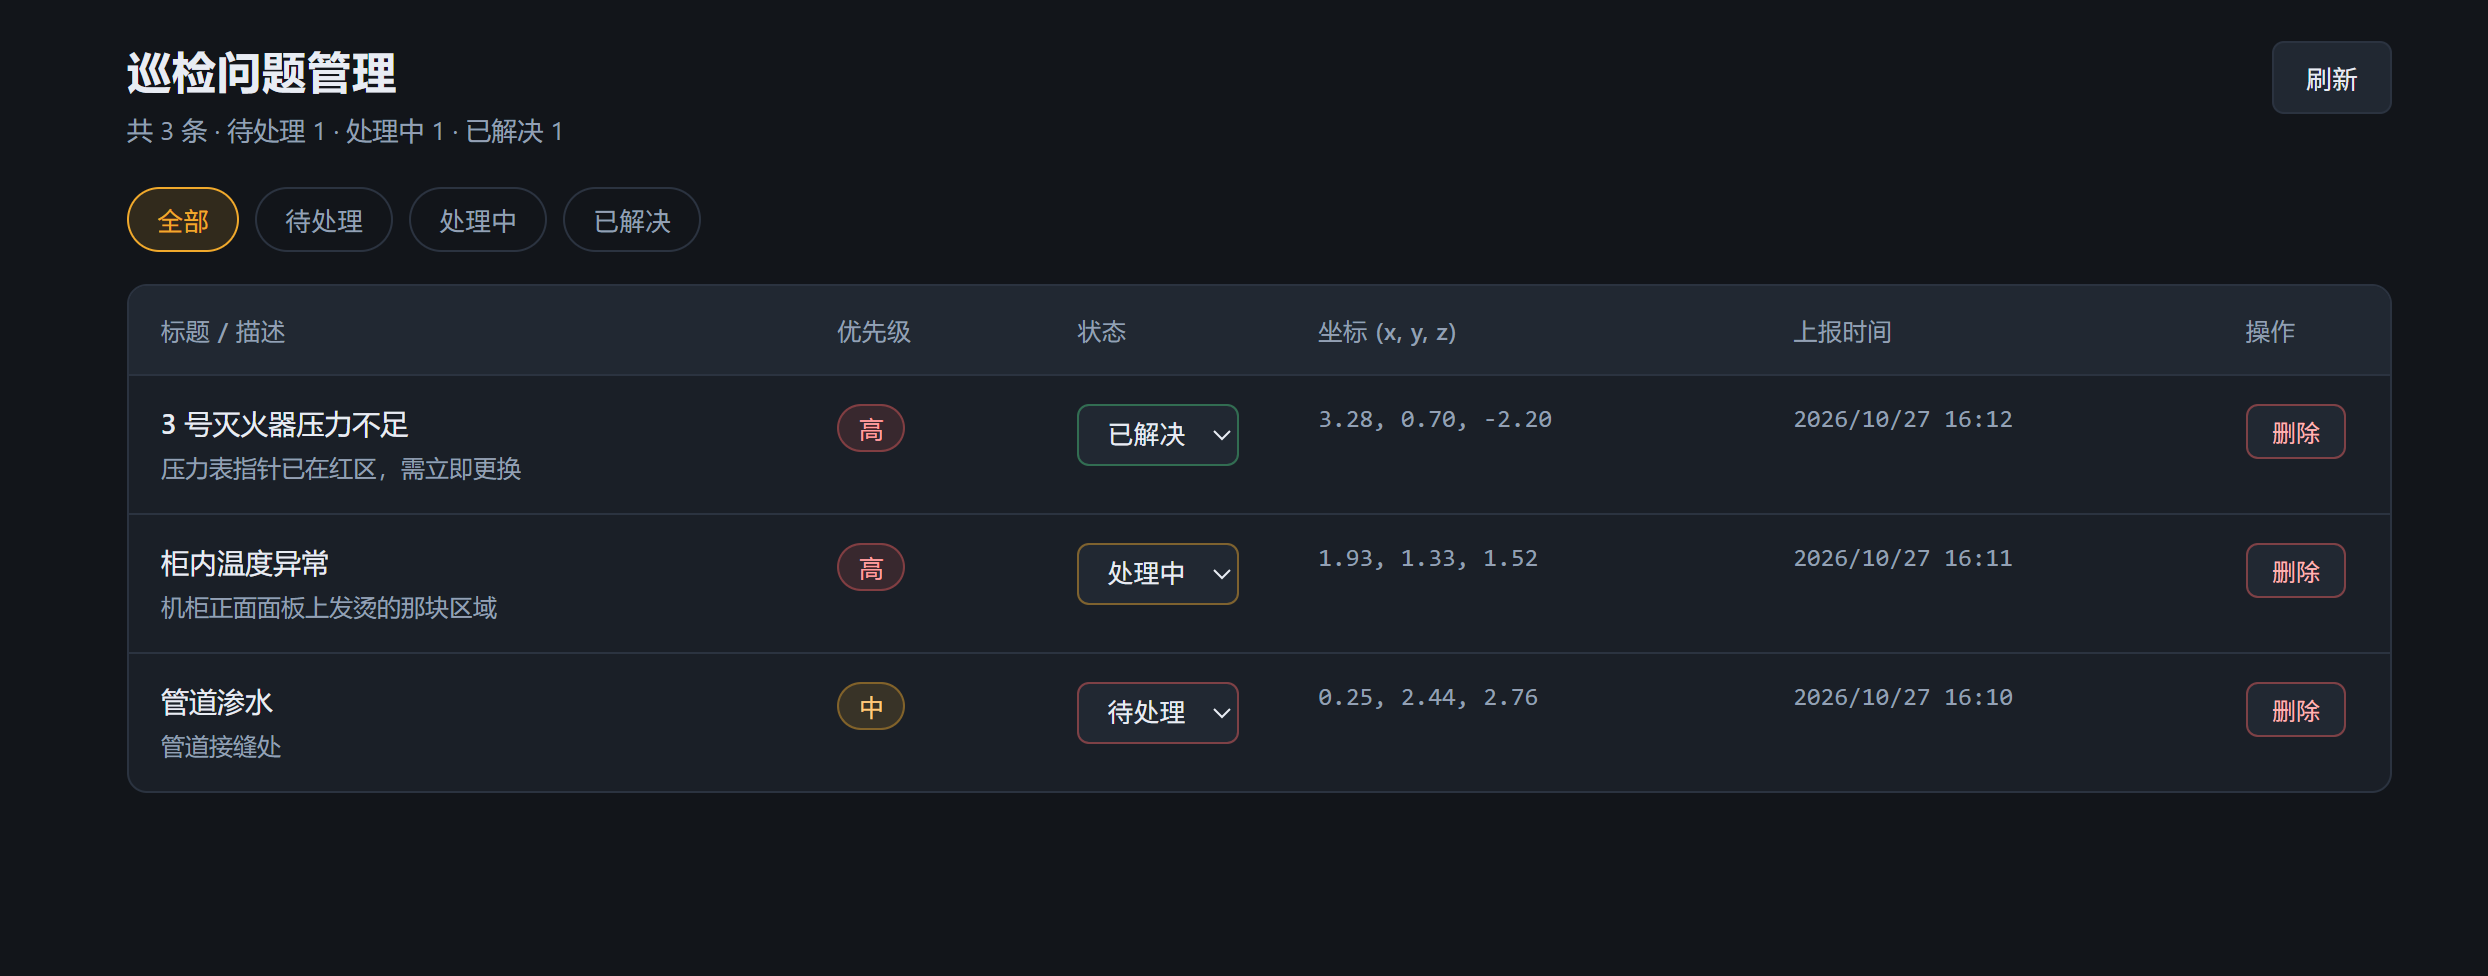
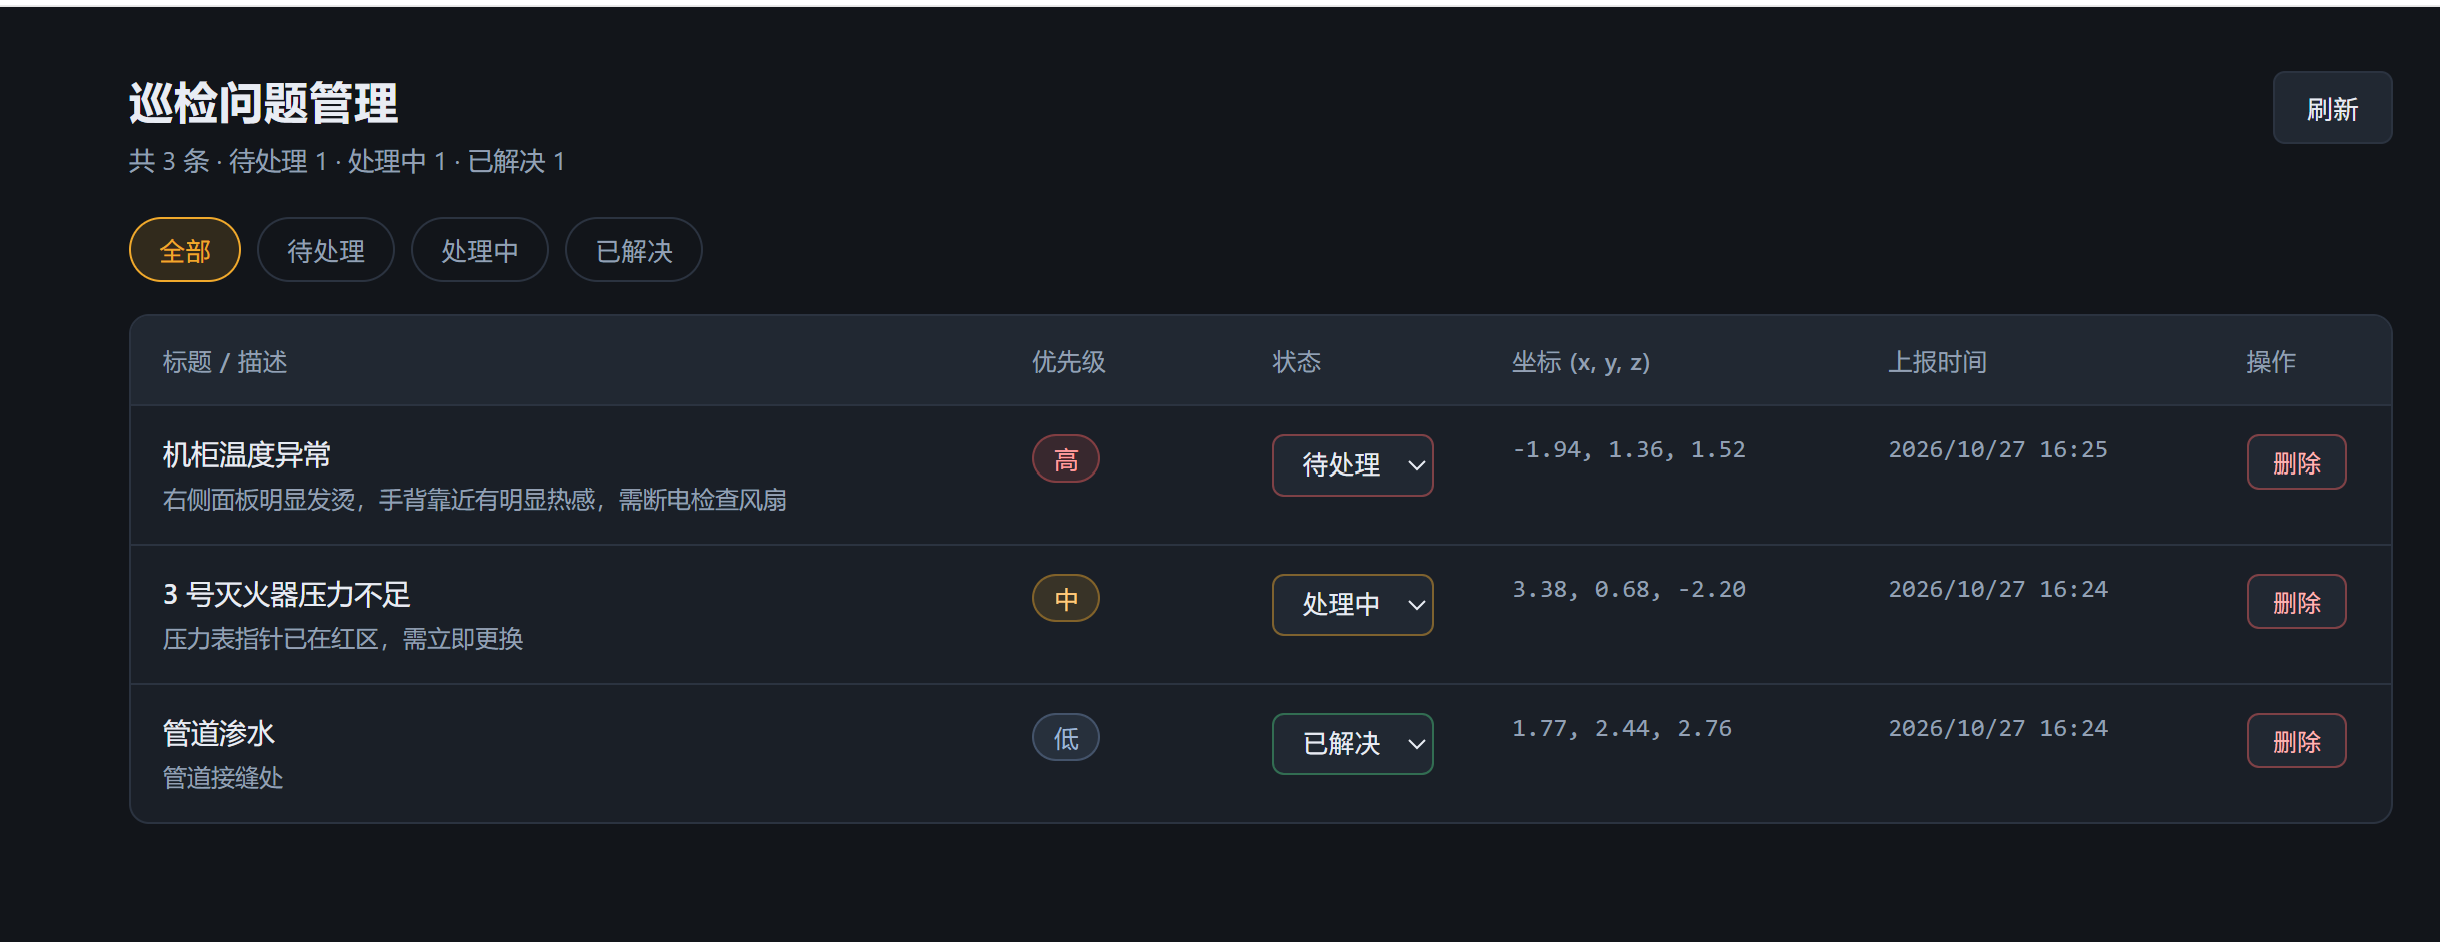
docs: README 增加效果展示（巡检现场 / 表单 / 详情 / 管理端 / AR 模拟）
- 01 巡检现场：三个标记按状态上色
- 02 表单：射线命中后填写
- 03 详情面板
- 04 管理端：三种状态 + 三种优先级
- 05 XR Simulation 演示

diff --git a/README.md b/README.md
@@ -18,6 +18,22 @@
 
 ---
 
+## 0.1 效果展示
+
+| 巡检现场：三个标记按状态上色（红/橙/绿） | 点击设备后在命中点放置标记并填写 |
+|---|---|
+| ![巡检现场](docs/images/01-unity-scene.png) | ![填写表单](docs/images/02-unity-form.png) |
+
+| 点击历史标记查看详情 | 管理端：三种状态、三种优先级 |
+|---|---|
+| ![问题详情](docs/images/03-unity-detail.png) | ![管理端列表](docs/images/04-web-list.png) |
+
+**XR Simulation 演示（加分项）**：编辑器内模拟真实 AR 的平面检测与点击放置
+
+![XR Simulation](docs/images/05-ar-simulation.png)
+
+---
+
 ## 1. 目录结构
 
 ```
